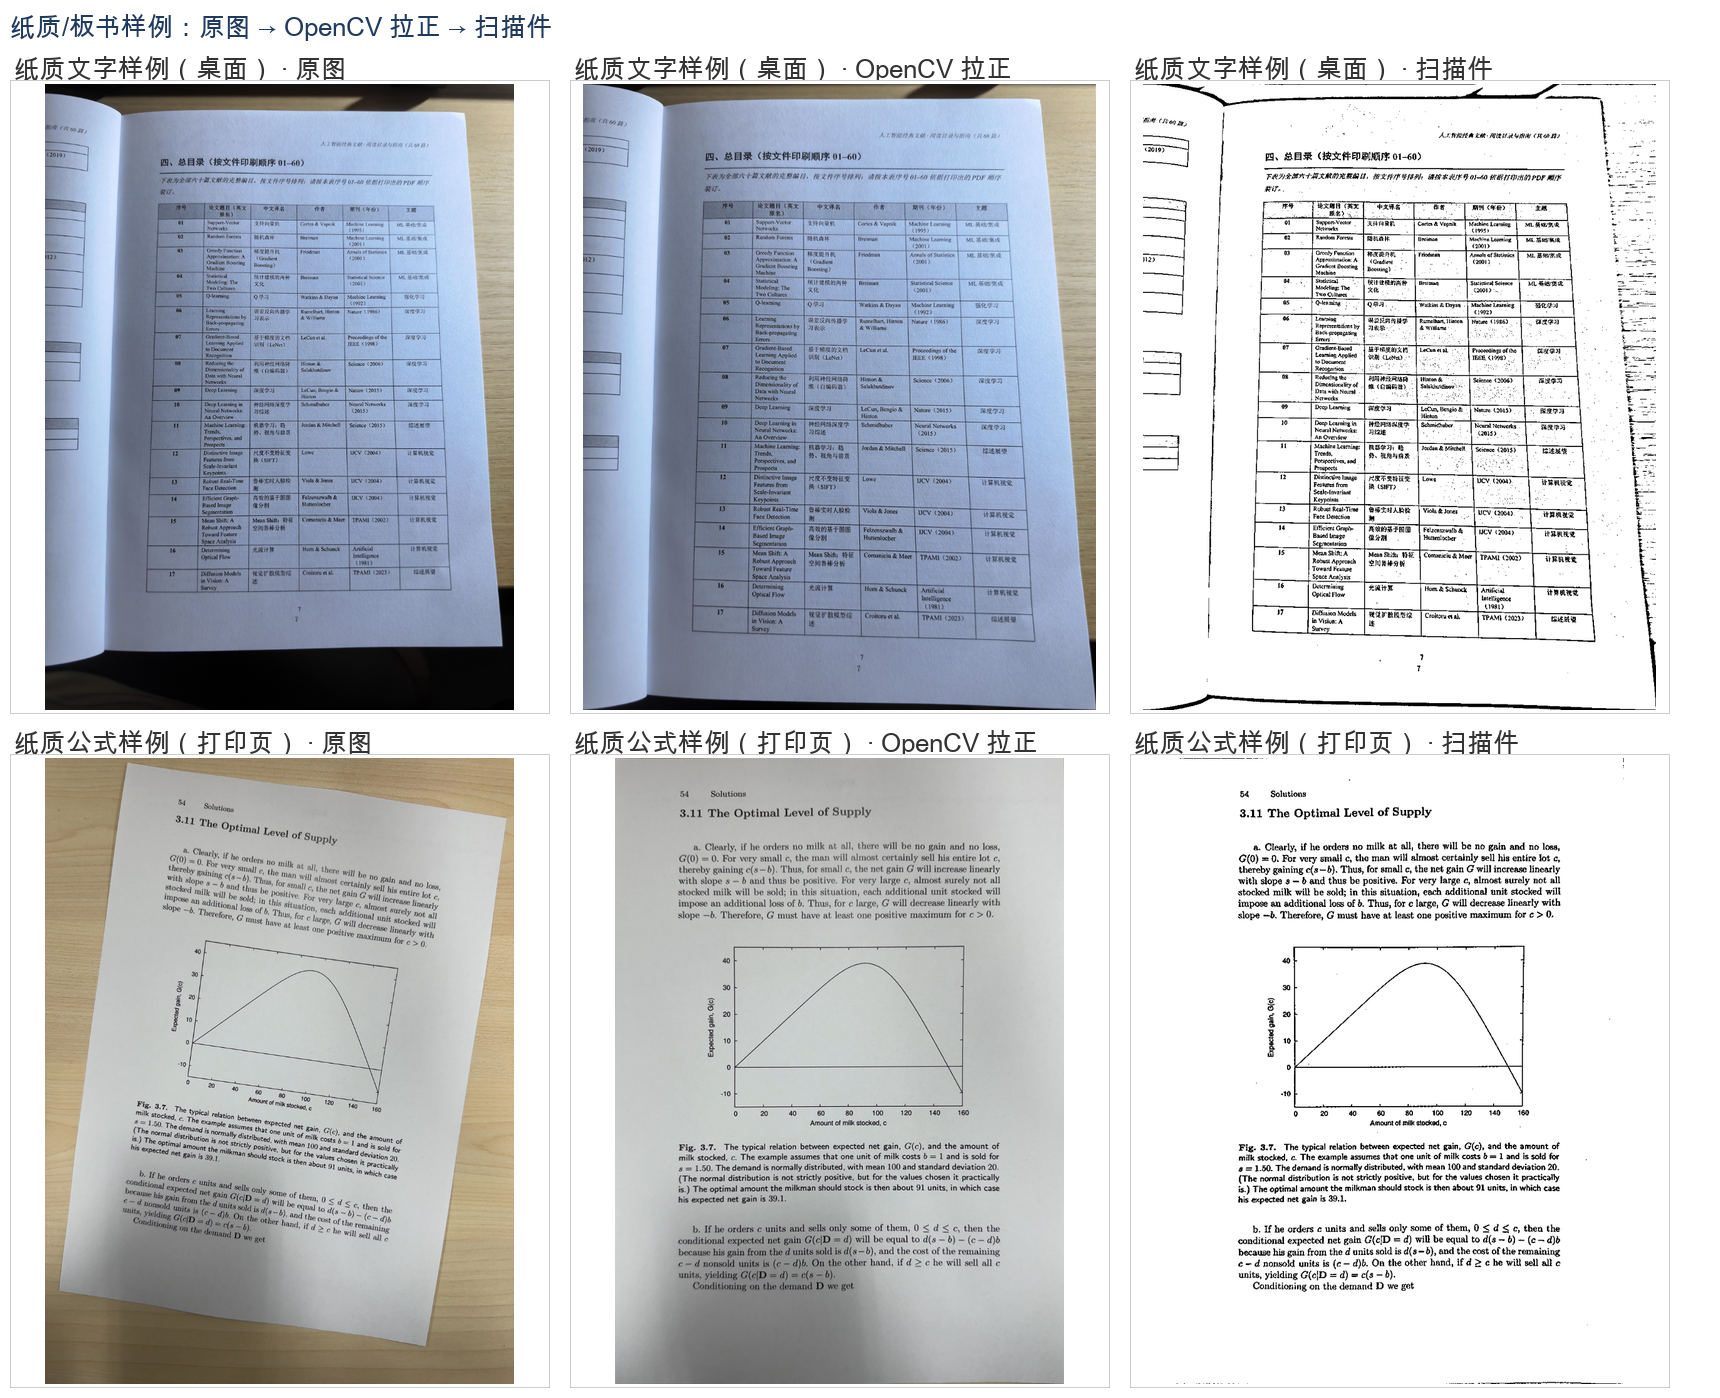
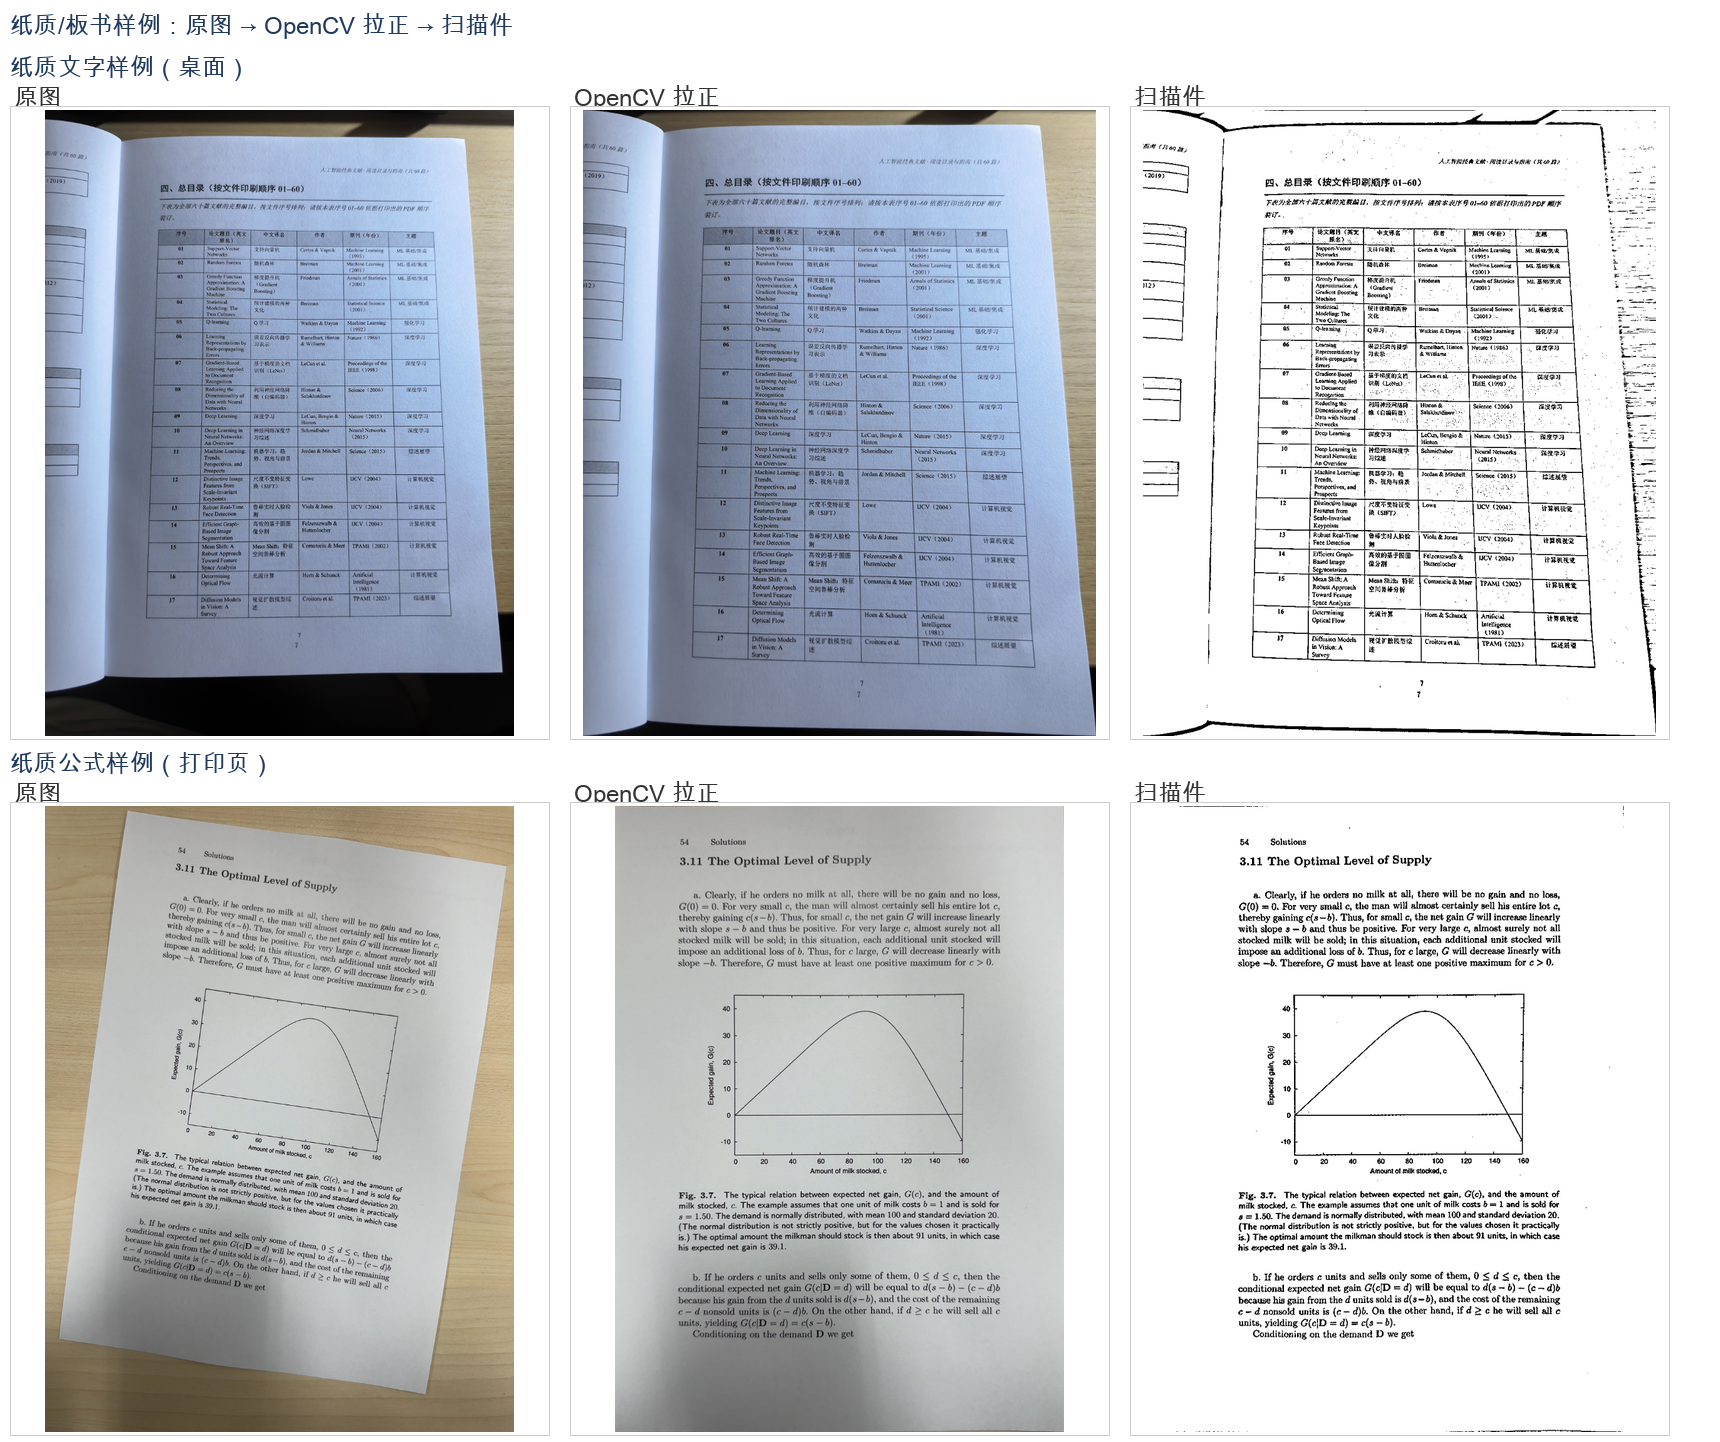
docs: tidy README effect figures (row titles + short panel labels)

diff --git a/scripts/make_readme_examples.py b/scripts/make_readme_examples.py
@@ -41,19 +41,22 @@ def fit_box(image: Image.Image, width: int, height: int) -> Image.Image:
 
 
 def build(rows, out_name: str, cell_w: int, cell_h: int, title: str) -> None:
-    font = ImageFont.truetype(FONT, 26)
-    label_h = 34
+    font = ImageFont.truetype(FONT, 24)
+    label_h = 26
+    row_title_h = 30
     width = cell_w * 3 + 40
-    height = 50 + len(rows) * (cell_h + label_h)
+    row_h = row_title_h + label_h + cell_h
+    height = 50 + len(rows) * row_h
     canvas = Image.new("RGB", (width, height), "white")
     draw = ImageDraw.Draw(canvas)
     draw.text((10, 8), title, fill="#1f3a5f", font=font)
     for r, (sample, panels) in enumerate(rows):
-        y = 50 + r * (cell_h + label_h)
+        y = 50 + r * row_h
+        draw.text((10, y), sample, fill="#1f3a5f", font=font)
         for c, (label, image) in enumerate(panels):
             x = 10 + c * cell_w
-            draw.text((x + 4, y), f"{sample} · {label}", fill="#333333", font=font)
-            canvas.paste(fit_box(image, cell_w - 20, cell_h - 6), (x, y + label_h - 4))
+            draw.text((x + 4, y + row_title_h), label, fill="#333333", font=font)
+            canvas.paste(fit_box(image, cell_w - 20, cell_h - 6), (x, y + row_title_h + label_h))
     canvas.save(OUT / out_name, quality=92)
     print("saved", out_name, canvas.size)
 
